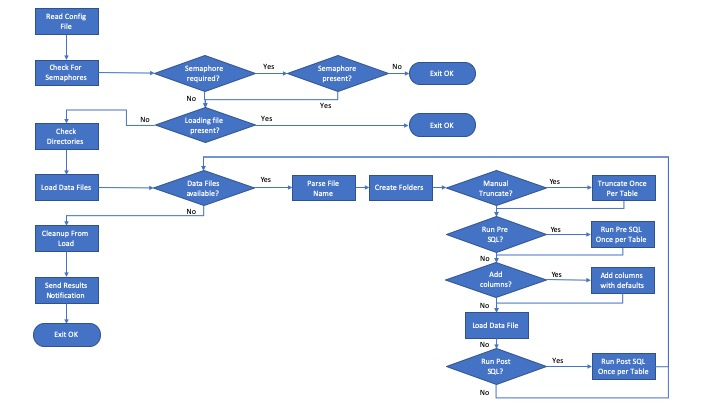
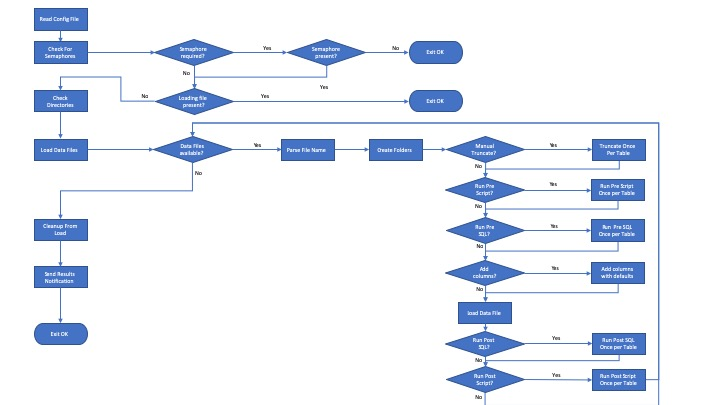
Updated load_files documentation in line with latest code updates

Changed region(s): [[0.0306, 0.0, 0.9472, 1.0], [0.0306, 0.6519, 0.1528, 0.8593], [0.0306, 0.5333, 0.1528, 0.6222]]

diff --git a/load_files/documentation/Documentation.md b/load_files/documentation/Documentation.md
@@ -90,6 +90,8 @@ The complete loading process is described in the diagram below.
 | | Create Folders | Create any required folders, if they have not been created before. |
 | |	Manual Truncate? | This is a special option for truncating which has been designed for case where input files might be delivered in parts, i.e. multiple files per table with a sequence number. In this case we cannot use the built-in truncate option as that would clear the table for every file. Setting the option ***TRUNCATE_BEFORE_LOAD*** to true will execute a manual truncate command before the `tsload` process. |
 | | Truncate Once Per Table | This will execute a manual truncate only once per table, i.e. the first time a table is ‘seen’ in this load process it will execute and not for the others. <br/><br/> Note: This is done a separate statement, which means that is for whatever reason the `tsload` process fails, the tables still would have been truncated (unlike the built-in truncate) |
+| | Run Pre Script? | This allows you to execute any shell script before loading the table. Only one shell script per table can be executed. The statements can be defined in the array pre_load_shell in the configuration file, where they key is the table name. |
+| | Run Pre Script Once Per Table | Execute a shell script before loading the table. For example: deleting some old data based on a on very custom criteria, maybe from a parameter file. |
 | | Run Pre SQL? | This allows you to execute any TQL supported SQL statement before loading the table. Only one SQL statement per table can be executed. The statements can be defined in the array pre_load_sql in the configuration file, where they key is the table name. |
 | | Run Pre SQL Once Per Table | Execute a SQL statement before loading the table. For example: deleting some old data based on a date range. |
 | | Add Columns? | This is for scenarios where you want to provide default values for columns that are not in the data. These are specified in ***extra_table_headers*** (for the column names) and ***extra_table_values*** (for the values) |
@@ -97,8 +99,23 @@ The complete loading process is described in the diagram below.
 | | Load Data File | This will execute the actual `tsload` process. All required parameters can be defined in the config file. |
 | | Run Post SQL?	| This is similar as the Pre SQL, with the difference that these are run after the `tsload`. They are defined in the post_load_sql. |
 | | Run Post SQL Once Per Table	| Run the Post SQL commands if specified for each table once. |
+| | Run Post Script? | This allows you to execute any shell script after loading the table. Only one shell script per table can be executed. The statements can be defined in the array post_load_shell in the configuration file, where they key is the table name. |
+| | Run Post Script Once Per Table | Execute a shell script after loading the table. For example: verifying some data or kicking off another unrelated process. |
 | **Cleanup From Load** | | This step will clean up all temporary files and will archive the source data and log files according to the setting in ***ARCHIVE_DATA***. <br/>It will also clean up old archives based on the number of days specified in ***NBR_DAYS_TO_KEEP_OLD_FILES***.|
 | **Send Results Notification** | | If activated on the cluster this step well send an status email to the email addresses specified in ***RESULTS_EMAIL***, with the log attached. <br/>If HTML email is enabled (***USE_HTML_EMAIL***), a nicely formatted table will be created in the body of the email, allowing an easy and quick insight into the results of the load.|
+
+#### Note on shell scripts
+
+A few comments around the use of shell scripts:
+
+- When executing shell scripts it might happen that the script times out, i.e. returns to the shell whilst it is actually still doing things. This might result on the calling script to think it failed (as no return code). There are two variables in the config file to control this. One to define on how many times it should check for completeness (SCRIPT_MAX_CHECK_ATTEMPTS) and one variable defines how long to wait between checks (SCRIPT_CHECK_WAIT_TIME)
+- For integration, a number of paramters are always passed to any script. Make sure these are interpreted in any custom script you create:
+    -d|--database DATABASE_NAME   Name of the database where the table resides
+    -s|--schema   SCHEMA_NAME     Name of the schema where the table resides
+    -t|--table    TABLE_NAME      Name of the table to execute a delete for
+    -c|--config   CONFIG_FILE     Name of the config file used in the load process
+    -l|--log      LOG_FILE        Name of the log file to write logging messages to
+    -f|--file     SOURCE_FILE     The souce file being loaded
 
 ### Deploy and configure
 
@@ -127,58 +144,64 @@ The configuration file should be passed to the script via the -f parameter. The 
 Note: The AWS parameters only need to be modified if data is loaded from AWS S3 buckets. Also note that an AWS configuration has their own parameters for ***DATA_DIR*** and archiving. 
 Parameter	Description
 
-| Parameter | Description |
-| --------- | ----------- |
-| ***SOURCE_TYPE*** | Either file_system for local file loads or aws_s3 |
-| ***DATA_FILE_EXTENSION*** | The extension of the input data files, typically .csv |
-| ***ROOT_DIR*** | The root directory from which the script will operate. The load script will typically be in a bin folder in that root directory. |
-| ***RESULTS_EMAIL*** | The email addresses to which the result notification should be sent to. |
-| ***DATABASE_NAME*** | The name of the target database. Only one database is allowed per configuration file. |
-| ***DEFAULT_SCHEMA_NAME*** | If input files are not placed in sub folders under the ***DATA_DIR***, this variable will define the name of the target schema. If no schema are used specify ‘falcon_default_schema’ here. |
-| ***IGNORE_DIRS*** | When scanning for input files the process will ignore directories with names specified in this list (space separated list) |
-| ***NBR_DAYS_TO_KEEP_OLD_FILES*** | This is the number of days archive files will be kept in the OLD directory until the process will remove them. Leave this blank to not remove old archives. |
-| ***MOVE_LOADED_FILES*** | This is the command to execute against files which have been loaded. Possible options are:<ul><li>mv    (moves the files)</li><li>cp     (copies the files)</li><li>echo (displays the file name)</li></ul>Typically you would have this on ‘mv’ to move and archive the files. The other two are typically used in troubleshooting input files issues (so you don’t have to extract and copy them from the archive each time) |
-| ***TRUNCATE_BEFORE_LOAD*** | This can be used for multi-part input files. If set to true, it will truncate the target table manually once (before the first table file). In other cases just set this to false. |
-| ***ARCHIVE_DATA*** | This defines if and how data should be archived. For larger data files archiving can be time consuming and taking up space. The options are:<ul><li>always. Files are always archived.</li><li>onerror. Files are archived when one of the files in the load failed.</li><li>onbad. Files are archived when one of the files generated bad records.</li><li>Never. Files are never archived.</li></ul>|
-| ***DATA_DIR*** | Specifies the data directory where data files will be placed. |
-| ***AWS_S3_ACCESS_KEY_ID*** | The access key from your AWS Config |
-| ***AWS_S3_SECRET_ACCESS_KEY*** | The secret access key from your AWS config |
-| ***AWS_S3_REGION*** | The region used, see: [AWS Service Endpoints](https://docs.aws.amazon.com/general/latest/gr/rande.html) |
-| ***AWS_S3_BUCKET*** | The name of the bucket for files to load |
-| ***AWS_S3_ARCHIVE_BUCKET*** | The name of the bucket to save loaded files. If blank no archiving will happen |
-| ***AWS_S3_DATA_DIR*** | The folder under the bucket to start loading from. This is the actual data root. |
-| ***AWS_S3_BUF_CAPACITY*** | The buffer for loading files. |
-| ***SEMAPHORE_FILE_NAME*** | This is the name of the semaphore file the load process will look for before initiating the load. If left empty, the process will not wait for a semaphore to be present. |
-| ***SED_PATTERNS*** | Here you can set any part of the file name that will be stripped to determine the table name (excluding the ones which are already stripped internally) The items should be separated by space. |
-| ***CLUSTER_NAME*** | This should normally not be changed. It defines how the name of the cluster should be obtained. |
-| ***RUN_DOS2UNIX*** | If set to 1, the load script will run a dos2unix command against the input file before loading it. |
-| ***DEFAULT_EMPTY_TARGET*** | (used by `tsload`) <br/>This should either be empty or –empty_target. This is used for activate the built-in truncating of the target table. If left empty, no truncating will be done. See comments on truncating in situations will multi-part files earlier in this document. |
-| ***SOURCE_DATA_FORMAT*** | (used by `tsload`) <br/>The source file format. Either csv or delimited |
-| ***FIELD_SEPARATOR*** | (used by `tsload`) <br/>The field separator used in the source data |
-| ***MAX_IGNORED_ROWS*** | (used by `tsload`) <br/>Maximum number of error rows to ignore. 0 is recommended for production. |
-| ***HAS_HEADER_ROW*** | (used by `tsload`) <br/>True if there is a header row in the input file to ignore. |
-| ***NULL_VALUE*** | (used by `tsload`) <br/>Value in the data which should be interpreted as a NULL value. |
-| ***DATE_FORMAT*** | (used by `tsload`) <br/>The format for parsing dates, e.g. %m-%d-%Y |
-| ***DATE_TIME_FORMAT*** | (used by `tsload`) <br/>The format for parsing date/times, e.g. %m-%d-%Y %H:%M:%s |
-| ***BOOLEAN_REPRESENTATION*** | (used by `tsload`) <br/>Defines how to interpret Boolean values, e.g. True_False for True and False |
-| ***THE_DATE_TIME*** | Defines the date and time stamp which is added to internal log files |
-| ***LOG_DIR*** | The directory where the log files should be written to. |
-| ***TEMP_TSLOAD_FILE*** | Temporary file where tsload output is captured |
-| ***TEMP_RESULT_FILE*** | Temporary file where detailed results are captured |
-| ***TEMP_STATS_FILE*** | Temporary file where loading stats are captured |
-| ***TEMP_RESULTS_SUMMARY_FILE*** | Temporary file where the results summary is captured |
-| ***RESULTS_FILE*** | The target file where the results of the data load are stored |
-| ***LOADING_FILE*** | Specification of the loading file which is created when a load starts (and removed on completion) |
-| ***V_LEVEL*** | Logging verbosity level. 0-6. 0 Recommended for production |
-| ***USE_HTML_EMAIL*** | Set to 1 to receive notification emails in HTML format, 0 for standard text. |
-| ***OLD_DIR_ROOT*** | The root folder for archiving |
-| ***OLD_DIR*** | The folder under the archiving root directory where the archives for the current load are stored. |
-| ***pre_load_tql*** | This array contains SQL statements which will be executed before the loading of a table. The key of the array should be the table name. |
-| ***post_load_tql*** | This array contains SQL statements which will be executed after the loading of a table. The key of the array should be the table name. |
-| ***extra_table_headers*** | This defines the column names of the columns which will be added to the data file before loading. Should be used in conjunction with ***extra_table_values***. |
-| ***extra_table_values*** | This defines the values for the columns which will be added to the data file before loading. Should be used in conjunction with ***extra_table_headers***. |
+| Section | Parameter | Description |
+| --------- | --------- | ----------- |
+| GENERAL SETTINGS | ***SOURCE_TYPE*** | Either file_system for local file loads or aws_s3 |
+| FOLDER SETTINGS | ***ROOT_DIR*** | The root directory from which the script will operate. The load script will typically be in a bin folder in that root directory. |
+| FOLDER SETTINGS | ***LOG_DIR*** | The directory where the log files should be written to. |
+| FOLDER SETTINGS | ***IGNORE_DIRS*** | When scanning for input files the process will ignore directories with names specified in this list (space separated list) |
+| FOLDER SETTINGS | ***DATA_DIR*** | Specifies the data directory where data files will be placed. |
+| FOLDER SETTINGS | ***OLD_DIR_ROOT*** | The root folder for archiving |
+| AWS S3 SETTINGS | ***AWS_S3_ACCESS_KEY_ID*** | The access key from your AWS Config |
+| AWS S3 SETTINGS | ***AWS_S3_SECRET_ACCESS_KEY*** | The secret access key from your AWS config |
+| AWS S3 SETTINGS | ***AWS_S3_REGION*** | The region used, see: [AWS Service Endpoints](https://docs.aws.amazon.com/general/latest/gr/rande.html) |
+| AWS S3 SETTINGS | ***AWS_S3_BUCKET*** | The name of the bucket for files to load |
+| AWS S3 SETTINGS | ***AWS_S3_ARCHIVE_BUCKET*** | The name of the bucket to save loaded files. If blank no archiving will happen |
+| AWS S3 SETTINGS | ***AWS_S3_DATA_DIR*** | The folder under the bucket to start loading from. This is the actual data root. |
+| AWS S3 SETTINGS | ***AWS_S3_BUF_CAPACITY*** | The buffer for loading files. |
+| FILE SETTINGS | ***DATA_FILE_EXTENSION*** | The extension of the input data files, typically .csv |
+| FILE SETTINGS | ***EXCLUDE_PATTERN*** | pattern which should be excluded in the files matched using the ***DATA_FILE_EXTENSION***
+| FILE SETTINGS | ***SED_PATTERNS*** | Here you can set any part of the file name that will be stripped to determine the table name (excluding the ones which are already stripped internally) The items should be separated by space. |
+| FILE SETTINGS | ***RUN_DOS2UNIX*** | If set to 1, the load script will run a dos2unix command against the input file before loading it. |
+| ARCHIVE SETTINGS | ***MOVE_LOADED_FILES*** | This is the command to execute against files which have been loaded. Possible options are:<ul><li>mv    (moves the files)</li><li>cp     (copies the files)</li><li>echo (displays the file name)</li></ul>Typically you would have this on ‘mv’ to move and archive the files. The other two are typically used in troubleshooting input files issues (so you don’t have to extract and copy them from the archive each time) |
+| ARCHIVE SETTINGS | ***NBR_DAYS_TO_KEEP_OLD_FILES*** | This is the number of days archive files will be kept in the OLD directory until the process will remove them. Leave this blank to not remove old archives. |
+| ARCHIVE SETTINGS | ***ARCHIVE_DATA*** | This defines if and how data should be archived. For larger data files archiving can be time consuming and taking up space. The options are:<ul><li>always. Files are always archived.</li><li>onerror. Files are archived when one of the files in the load failed.</li><li>onbad. Files are archived when one of the files generated bad records.</li><li>Never. Files are never archived.</li></ul>|
+| EMAIL SETTINGS | ***RESULTS_EMAIL*** | The email addresses to which the result notification should be sent to. |
+| EMAIL SETTINGS | ***USE_HTML_EMAIL*** | Set to 1 to receive notification emails in HTML format, 0 for standard text. |
+| DATABASE SETTINGS | ***DATABASE_NAME*** | The name of the target database. Only one database is allowed per configuration file. |
+| DATABASE SETTINGS | ***DEFAULT_SCHEMA_NAME*** | If input files are not placed in sub folders under the ***DATA_DIR***, this variable will define the name of the target schema. If no schema are used specify ‘falcon_default_schema’ here. |
+| LOAD SETTINGS | ***SEMAPHORE_FILE_NAME*** | This is the name of the semaphore file the load process will look for before initiating the load. If left empty, the process will not wait for a semaphore to be present. |
+| LOAD SETTINGS | ***TRUNCATE_BEFORE_LOAD*** | This can be used for multi-part input files. If set to true, it will truncate the target table manually once (before the first table file). In other cases just set this to false. |
+| TSLOAD SETTINGS | ***DEFAULT_EMPTY_TARGET*** | (used by `tsload`) <br/>This should either be empty or –empty_target. This is used for activate the built-in truncating of the target table. If left empty, no truncating will be done. See comments on truncating in situations will multi-part files earlier in this document. |
+| TSLOAD SETTINGS | ***SOURCE_DATA_FORMAT*** | (used by `tsload`) <br/>The source file format. Either csv or delimited |
+| TSLOAD SETTINGS | ***FIELD_SEPARATOR*** | (used by `tsload`) <br/>The field separator used in the source data |
+| TSLOAD SETTINGS | ***MAX_IGNORED_ROWS*** | (used by `tsload`) <br/>Maximum number of error rows to ignore. 0 is recommended for production. |
+| TSLOAD SETTINGS | ***HAS_HEADER_ROW*** | (used by `tsload`) <br/>True if there is a header row in the input file to ignore. |
+| TSLOAD SETTINGS | ***NULL_VALUE*** | (used by `tsload`) <br/>Value in the data which should be interpreted as a NULL value. |
+| TSLOAD SETTINGS | ***DATE_FORMAT*** | (used by `tsload`) <br/>The format for parsing dates, e.g. %m-%d-%Y |
+| TSLOAD SETTINGS | ***DATE_TIME_FORMAT*** | (used by `tsload`) <br/>The format for parsing date/times, e.g. %m-%d-%Y %H:%M:%s |
+| TSLOAD SETTINGS | ***TIME_FORMAT*** | (used by `tsload`) <br/>The format for parsing times, e.g. %H:%M:%s |
+| TSLOAD SETTINGS | ***BOOLEAN_REPRESENTATION*** | (used by `tsload`) <br/>Defines how to interpret Boolean values, e.g. True_False for True and False |
+| PRE/POST SHELL SCRIPTS SETTINGS | ***pre_load_shell*** | This array a shell script per table which will be executed before the loading of a table. The key of the array should be the table name. |
+| PRE/POST SHELL SCRIPTS SETTINGS | ***post_load_shell*** | This array a shell script per table which will be executed after the loading of a table. The key of the array should be the table name. |
+| PRE/POST SHELL SCRIPTS SETTINGS | ***SCRIPT_MAX_CHECK_ATTEMPTS*** | If a script was not completed, but returned to shell (timeout) how many times it should keep on checking before failing. |
+| PRE/POST SHELL SCRIPTS SETTINGS | ***SCRIPT_CHECK_WAIT_TIME*** | Time in seconds to wait in between attempts. |
+| PRE/POST TQL COMMANDS SETTINGS | ***pre_load_tql*** | This array contains a TQL statement per table which will be executed before the loading of a table. The key of the array should be the table name. |
+| PRE/POST TQL COMMANDS SETTINGS | ***post_load_tql*** | This array contains a TQL statement per table which will be executed after the loading of a table. The key of the array should be the table name. |
+| GENERATE EXTRA (DEFAULT) COLUMNS HEADERS | ***extra_table_headers*** | This defines the column names of the columns which will be added to the data file before loading. Should be used in conjunction with ***extra_table_values***. |
+| GENERATE EXTRA (DEFAULT) COLUMNS HEADERS | ***extra_table_values*** | This defines the values for the columns which will be added to the data file before loading. Should be used in conjunction with ***extra_table_headers***. |
+| INTERNAL SETTINGS | ***CLUSTER_NAME*** | This should normally not be changed. It defines how the name of the cluster should be obtained. |
+| INTERNAL SETTINGS | ***THE_DATE_TIME*** | Defines the date and time stamp which is added to internal log files |
+| INTERNAL SETTINGS | ***TEMP_TSLOAD_FILE*** | Temporary file where tsload output is captured |
+| INTERNAL SETTINGS | ***TEMP_RESULT_FILE*** | Temporary file where detailed results are captured |
+| INTERNAL SETTINGS | ***TEMP_STATS_FILE*** | Temporary file where loading stats are captured |
+| INTERNAL SETTINGS | ***TEMP_RESULTS_SUMMARY_FILE*** | Temporary file where the results summary is captured |
+| INTERNAL SETTINGS | ***RESULTS_FILE*** | The target file where the results of the data load are stored |
+| INTERNAL SETTINGS | ***LOADING_FILE*** | Specification of the loading file which is created when a load starts (and removed on completion) |
+| INTERNAL SETTINGS | ***V_LEVEL*** | Logging verbosity level. 0-6. 0 Recommended for production |
+| INTERNAL SETTINGS | ***OLD_DIR*** | The folder under the archiving root directory where the archives for the current load are stored. |
 
-## csv_to_sql
+# csv_to_sql
 
 (Documentation Coming soon)
 
